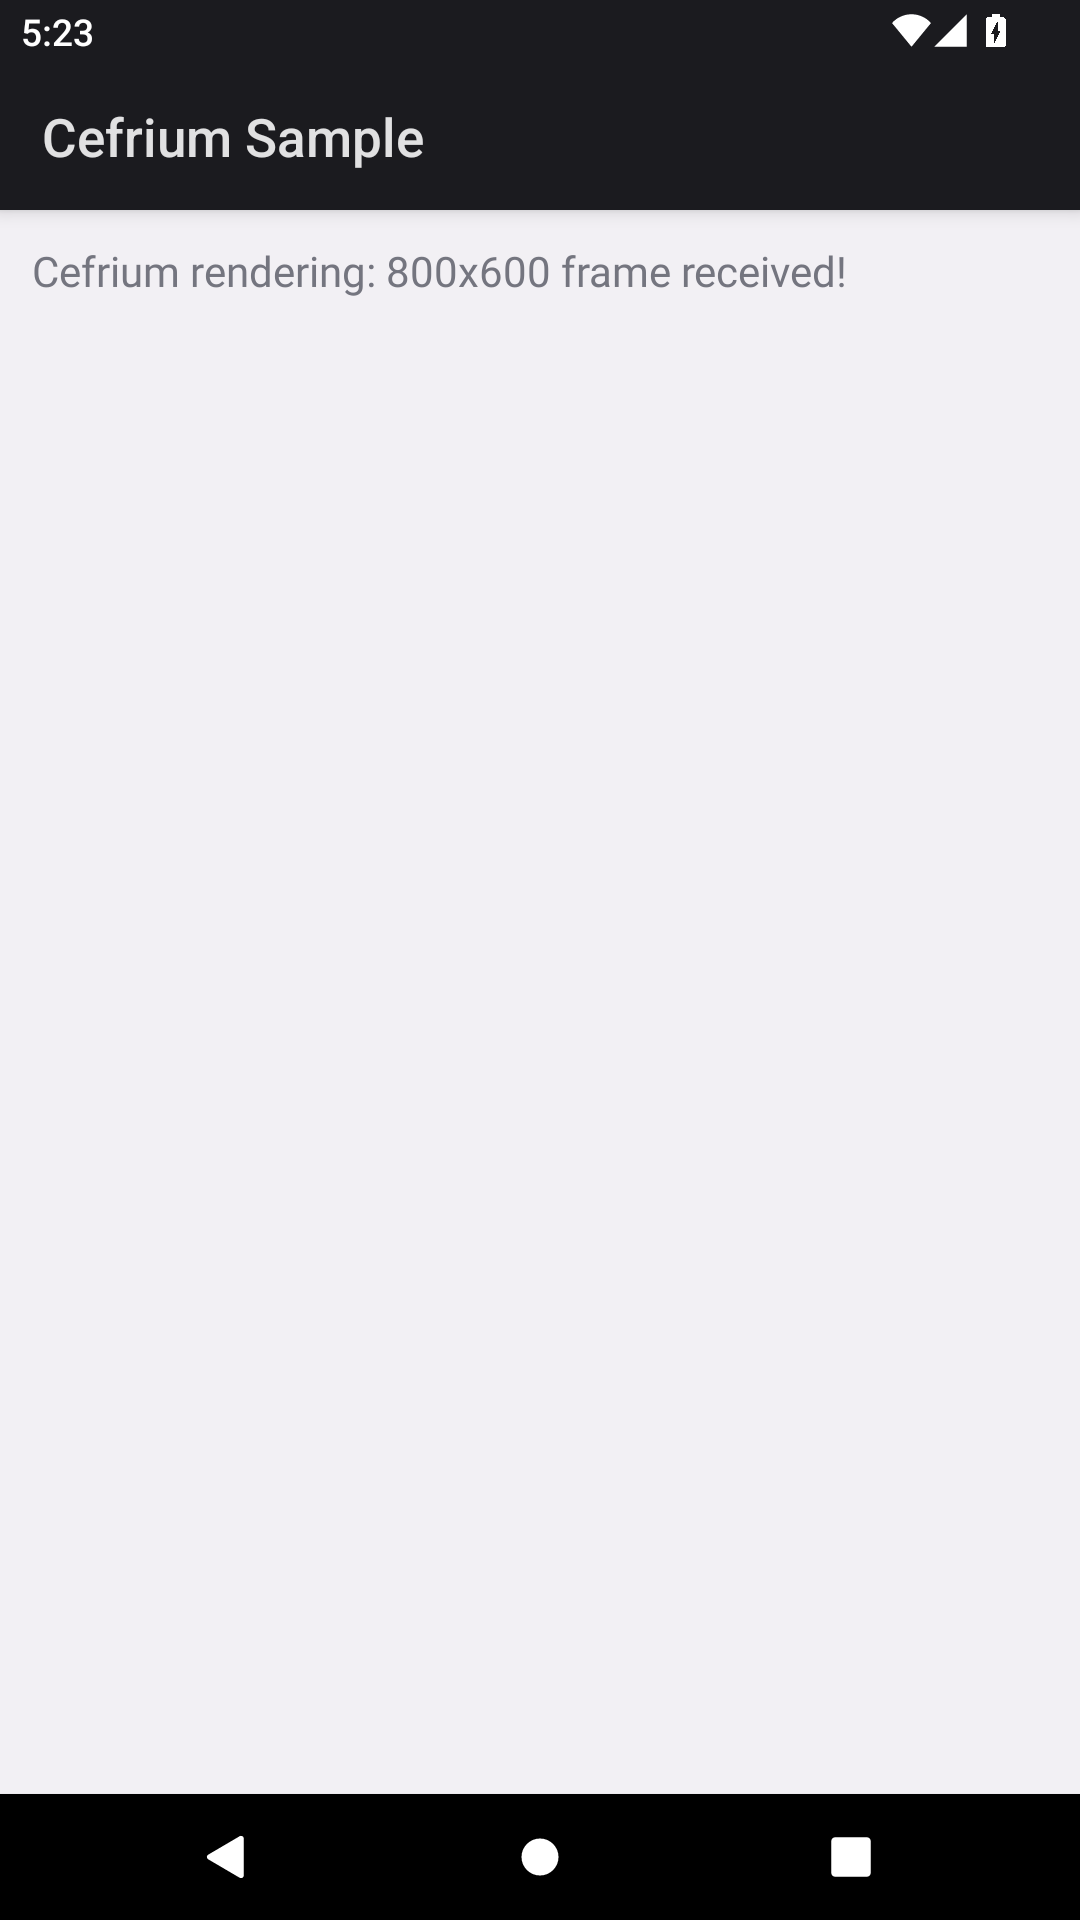
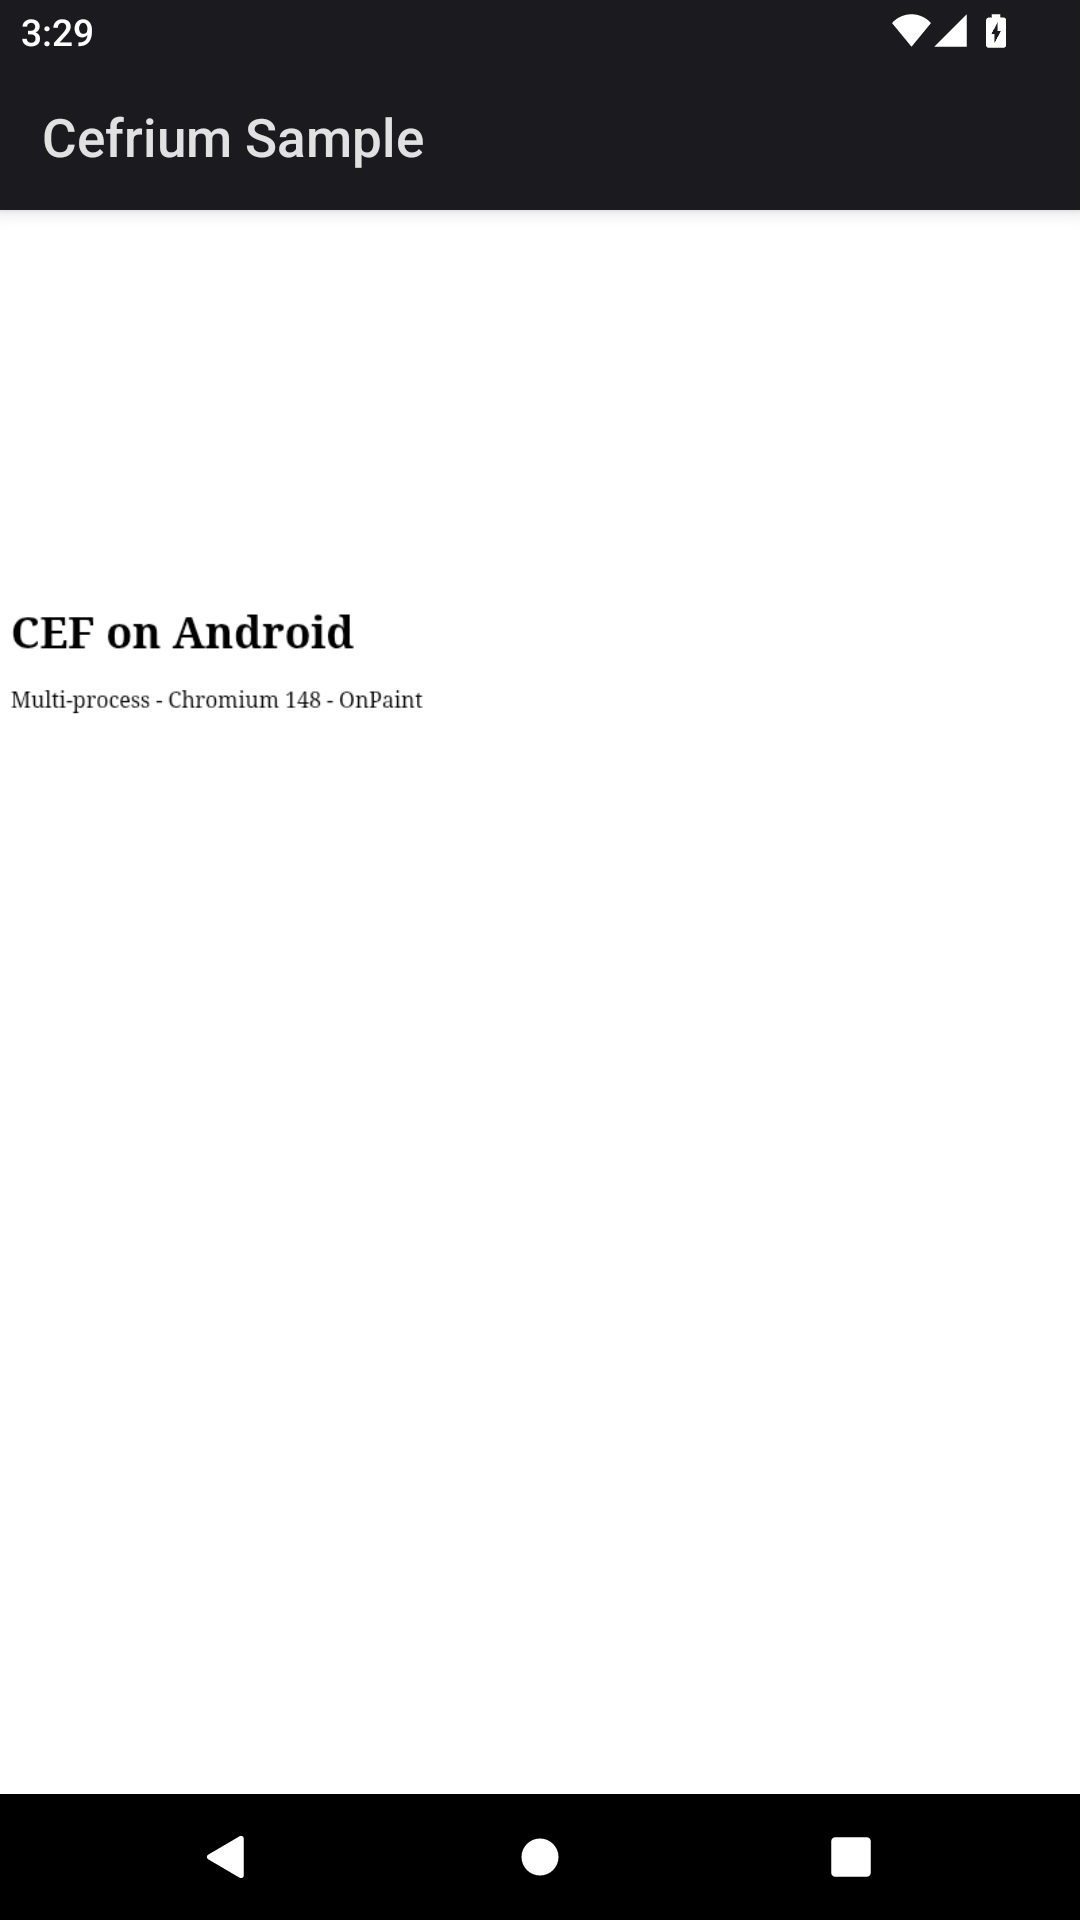
On-screen rendering: HTML visible from SDK AAR consumer via Bitmap+ImageView

Changed region(s): [[0.0306, 0.125, 0.7944, 0.1562], [0.0, 0.3125, 0.3972, 0.375], [0.0611, 0.0, 0.0917, 0.0312]]

diff --git a/libcef/browser/osr/render_widget_host_view_osr.cc b/libcef/browser/osr/render_widget_host_view_osr.cc
@@ -1820,12 +1820,27 @@ void CefRenderWidgetHostViewOSR::OnPaint(const gfx::Rect& damage_rect,
 
   // Workaround for issue #2817.
   if (!is_showing_) {
+    LOG(INFO) << "CefRWHVOSR::OnPaint: skipped (not showing)";
     return;
   }
 
   if (!pixels) {
+    LOG(WARNING) << "CefRWHVOSR::OnPaint: skipped (null pixels)";
     return;
   }
+
+  // Debug: check multiple pixels to see if content is rendered
+  const uint8_t* px = static_cast<const uint8_t*>(pixels);
+  int w = pixel_size.width();
+  // Check pixel at (50,50) — should be inside content area
+  int off50 = (50 * w + 50) * 4;
+  // Check pixel at (200,200) — center area
+  int off200 = (200 * w + 200) * 4;
+  LOG(INFO) << "CefRWHVOSR::OnPaint: " << pixel_size.ToString()
+            << " damage=" << damage_rect.ToString()
+            << " px[0,0]=" << (int)px[0] << "," << (int)px[1] << "," << (int)px[2] << "," << (int)px[3]
+            << " px[50,50]=" << (int)px[off50] << "," << (int)px[off50+1] << "," << (int)px[off50+2] << "," << (int)px[off50+3]
+            << " px[200,200]=" << (int)px[off200] << "," << (int)px[off200+1] << "," << (int)px[off200+2] << "," << (int)px[off200+3];
 
   CefRefPtr<CefRenderHandler> handler =
       browser_impl_->client()->GetRenderHandler();
@@ -2105,10 +2120,16 @@ void CefRenderWidgetHostViewOSR::RemoveGuestHostView(
 void CefRenderWidgetHostViewOSR::InvalidateInternal(
     const gfx::Rect& bounds_in_pixels) {
   if (video_consumer_) {
+    LOG(INFO) << "CefRWHVOSR::InvalidateInternal: using video_consumer";
     video_consumer_->RequestRefreshFrame(bounds_in_pixels);
   } else if (host_display_client_) {
+    LOG(INFO) << "CefRWHVOSR::InvalidateInternal: using host_display_client "
+              << host_display_client_->GetPixelSize().ToString()
+              << " memory=" << (host_display_client_->GetPixelMemory() ? "yes" : "null");
     OnPaint(bounds_in_pixels, host_display_client_->GetPixelSize(),
             host_display_client_->GetPixelMemory());
+  } else {
+    LOG(WARNING) << "CefRWHVOSR::InvalidateInternal: no video_consumer or host_display_client!";
   }
 }
 

diff --git a/libcef/browser/osr/video_consumer_osr.cc b/libcef/browser/osr/video_consumer_osr.cc
@@ -100,6 +100,9 @@ void CefVideoConsumerOSR::OnFrameCaptured(
     mojo::PendingRemote<viz::mojom::FrameSinkVideoConsumerFrameCallbacks>
         callbacks) {
   ScopedVideoFrameDone scoped_done(std::move(callbacks));
+  LOG(INFO) << "CefVideoConsumerOSR::OnFrameCaptured: "
+            << info->coded_size.ToString()
+            << " content=" << content_rect.ToString();
 
   media::VideoFrameMetadata metadata = info->metadata;
   gfx::Rect damage_rect;
